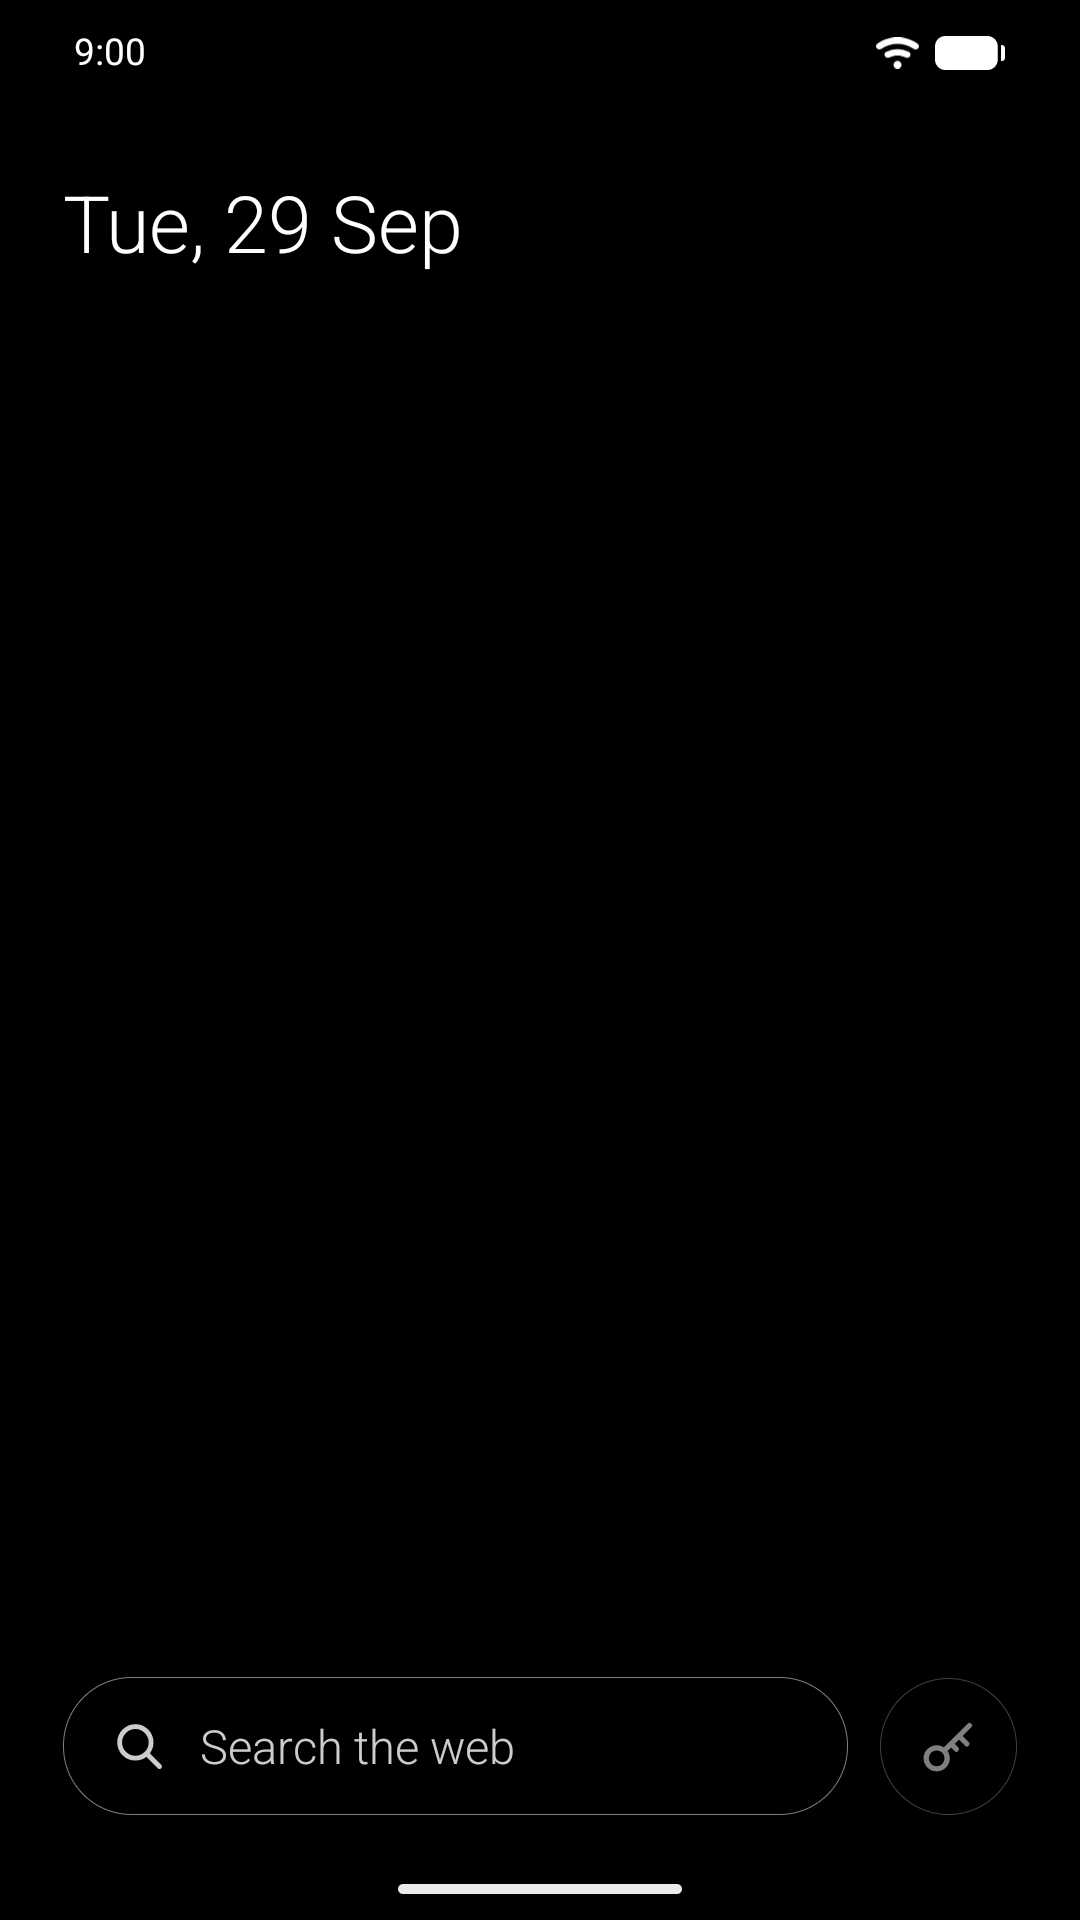
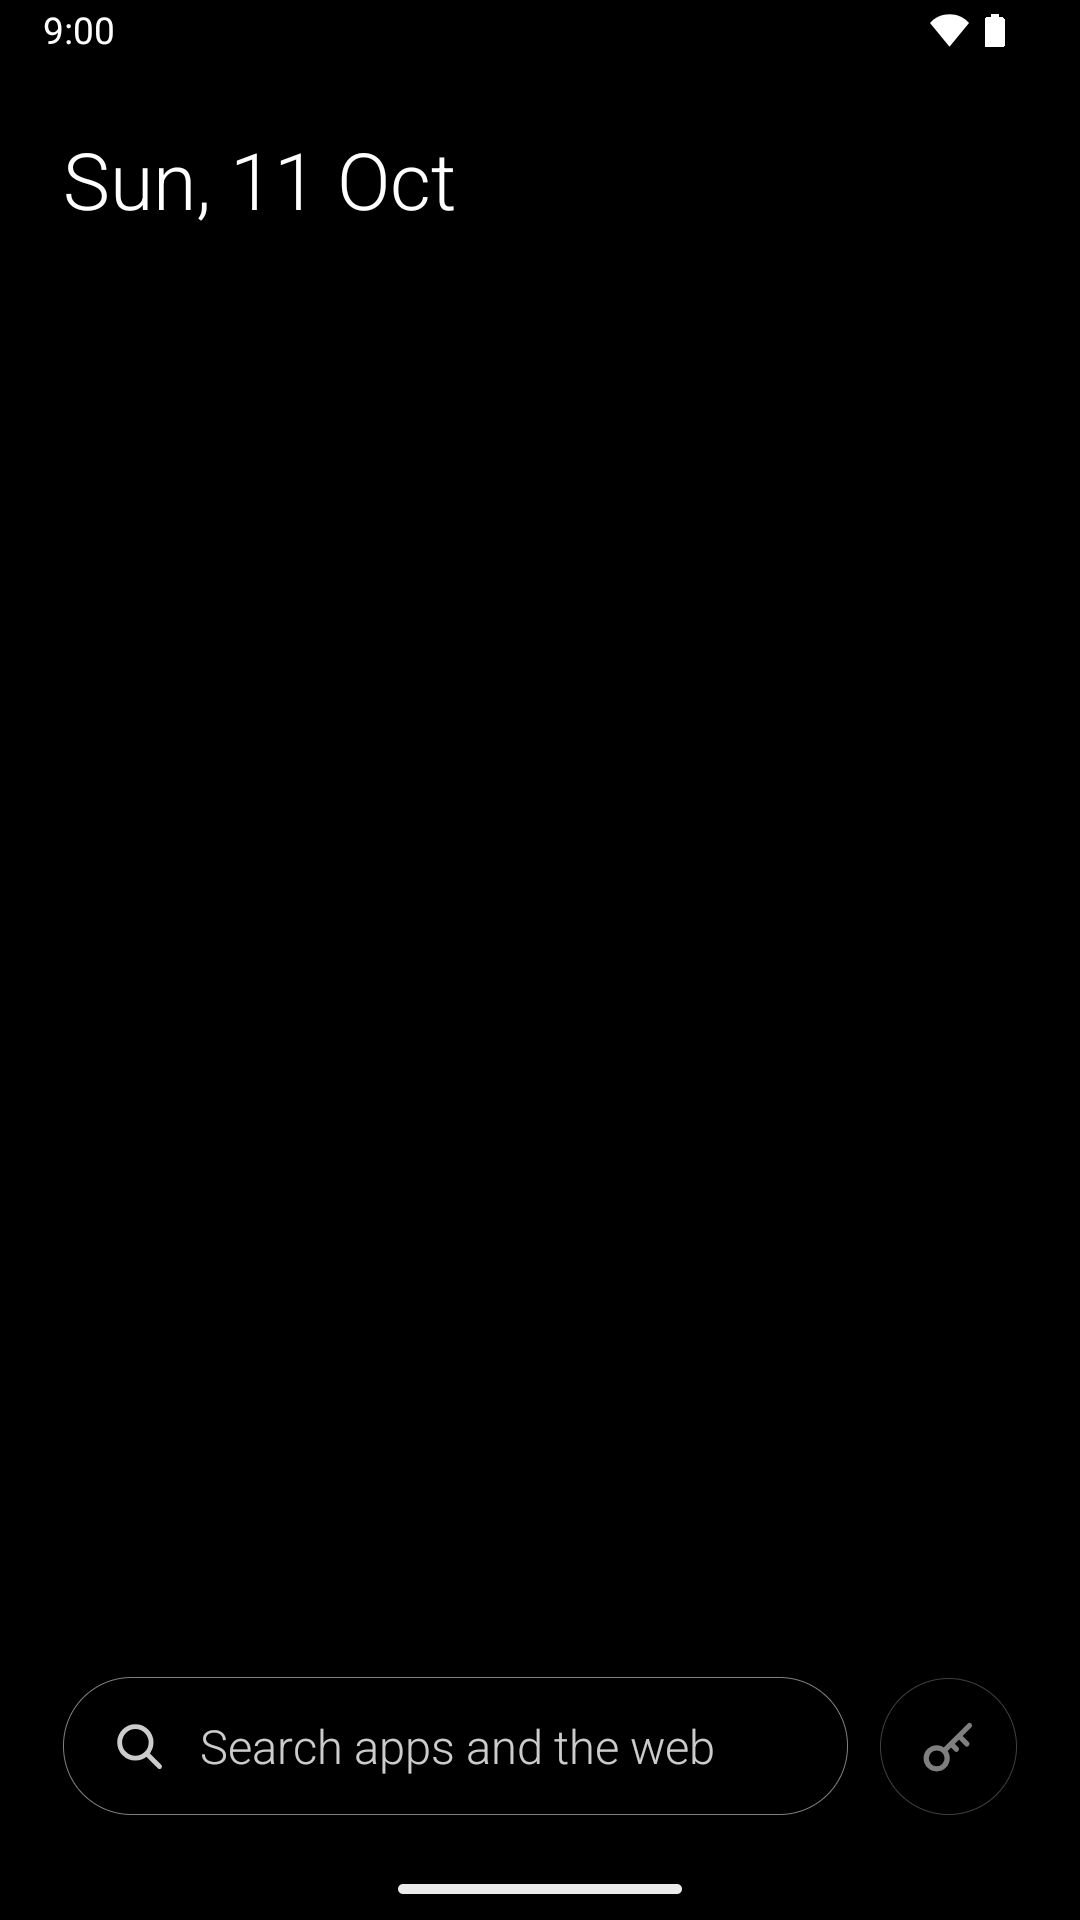
README screenshots from the same captures, with current alt text

diff --git a/README.md b/README.md
@@ -17,9 +17,9 @@ feedback** (a new GitHub issue), **Share Blauncher** and **Rate Blauncher**
 ## Screens
 
 <p align="center">
-  <img width="24%" src="docs/screenshots/tips.png" alt="First run: the home screen with a tip card above the search bar reading Welcome, tip 1 of 3, Swipe up for your apps">
-  <img width="24%" src="docs/screenshots/home.png" alt="Home screen: the date at the top, and at the bottom a search bar beside a round shortcut button wearing a key glyph">
-  <img width="24%" src="docs/screenshots/drawer.png" alt="App drawer: a one-line tip under the search field, then apps in groups, each marked by its own colored glyph; emphasized apps are bold and first while the rest of the group folds into one faded line counting the hidden apps">
+  <img width="24%" src="docs/screenshots/tips.png" alt="First run: the home screen with a tip card above the search bar reading Welcome, tip 1 of 3, Tap the search bar for your apps">
+  <img width="24%" src="docs/screenshots/home.png" alt="Home screen: the date at the top, and at the bottom a search bar reading Search apps and the web, beside a round shortcut button wearing a key glyph">
+  <img width="24%" src="docs/screenshots/drawer.png" alt="App drawer: the search bar at the top, a one-line tip, then categories, each with its own colored glyph and a small app count; People is open, its apps listed under it">
   <img width="24%" src="docs/screenshots/settings.png" alt="Settings: the Blauncher card with Help and FAQ, Send feedback, Share Blauncher and Rate Blauncher, then Smart ordering">
 </p>
 
